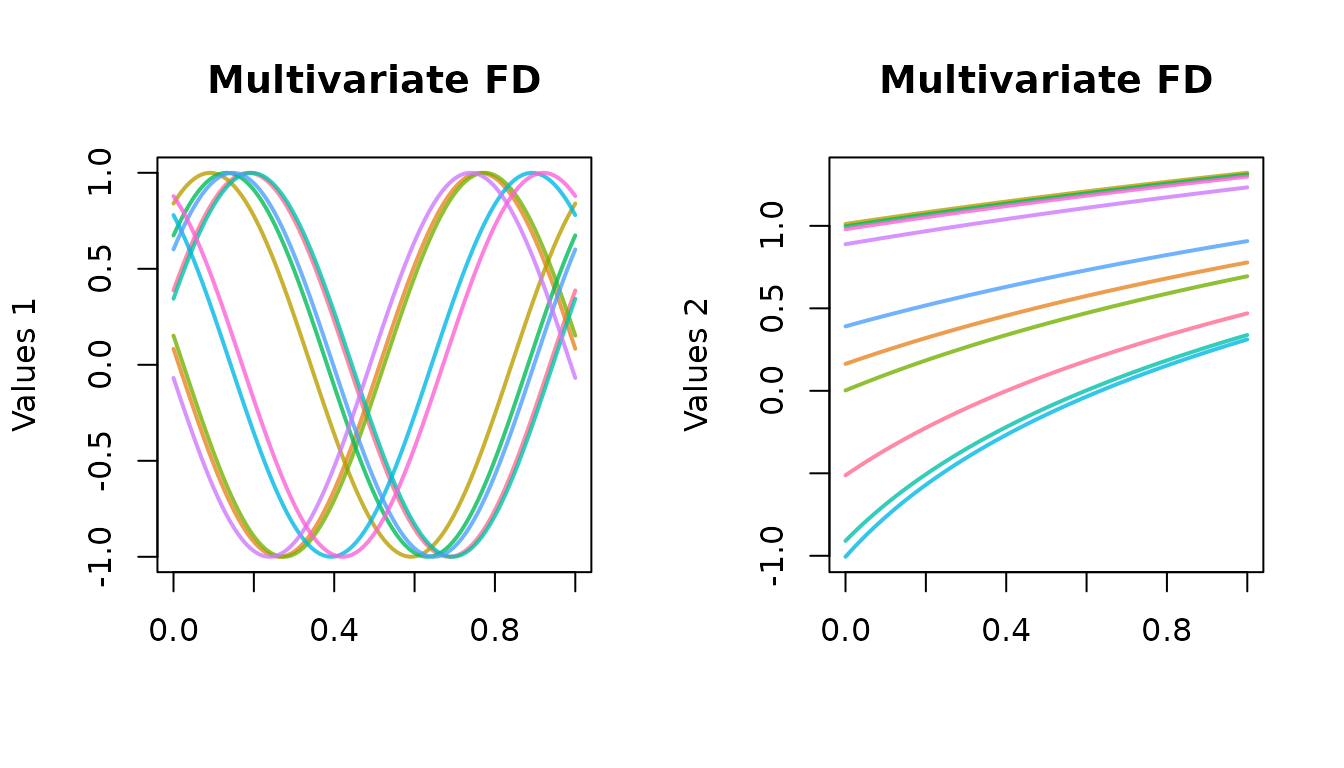
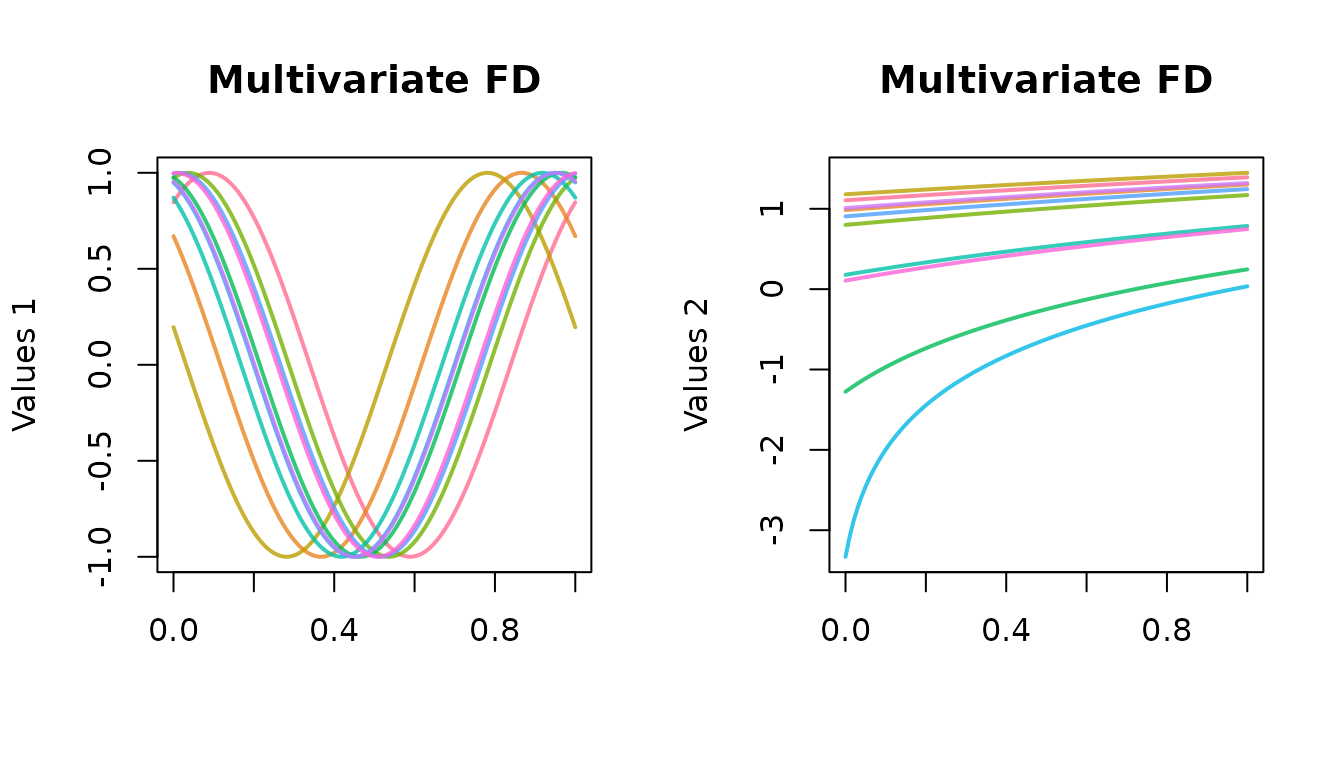
Built site for roahd: 1.4.3.9000@925b62b

diff --git a/articles/roahd.html b/articles/roahd.html
@@ -182,7 +182,7 @@
 <span class="co">##   .. ..$ h     : num 0.0101</span>
 <span class="co">##   .. ..$ P     : int 100</span>
 <span class="co">##   .. ..$ N     : int 10</span>
-<span class="co">##   .. ..$ values: num [1:10, 1:100] 0.3874 0.0834 0.84 0.1519 0.674 ...</span>
+<span class="co">##   .. ..$ values: num [1:10, 1:100] 0.846 0.67 0.196 0.973 0.976 ...</span>
 <span class="co">##   .. ..- attr(*, "class")= chr "fData"</span>
 <span class="co">##   ..$ :List of 6</span>
 <span class="co">##   .. ..$ t0    : num 0</span>
@@ -190,7 +190,7 @@
 <span class="co">##   .. ..$ h     : num 0.0101</span>
 <span class="co">##   .. ..$ P     : int 100</span>
 <span class="co">##   .. ..$ N     : int 10</span>
-<span class="co">##   .. ..$ values: num [1:10, 1:100] -0.51213 0.16316 1.01137 0.00238 0.99714 ...</span>
+<span class="co">##   .. ..$ values: num [1:10, 1:100] 1.106 0.985 1.18 0.8 -1.276 ...</span>
 <span class="co">##   .. ..- attr(*, "class")= chr "fData"</span>
 <span class="co">##  - attr(*, "class")= chr "mfData"</span></code></pre>
 <div class="sourceCode" id="cb8"><pre class="downlit sourceCode r">
